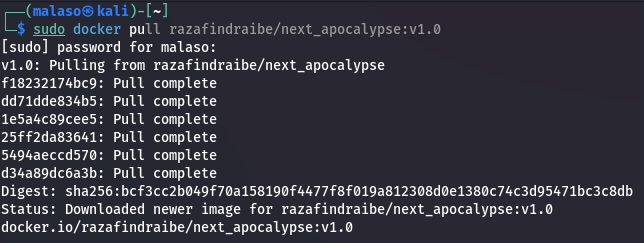
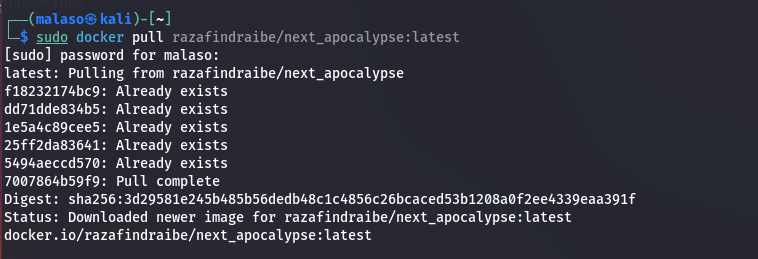
Update Docker image tags in writeup and replace images with latest versions

Changed region(s): [[0.0, 0.0, 0.9938, 0.9794]]

diff --git a/writeup next_apocalypse/writeup.md b/writeup next_apocalypse/writeup.md
@@ -15,12 +15,12 @@ You’ve been hired as a penetration tester to evaluate the security of the Medi
 - The docker images is available on my docker hub.
 <pre>Link : https://hub.docker.com/repositories/razafindraibe</pre>
 
-<pre>sudo docker pull razafindraibe/next_apocalypse:v1.0</pre>
+<pre>sudo docker pull razafindraibe/next_apocalypse:latest</pre>
 
 ![alt text](images/1.png)
 
 - Run the container:
-<pre>sudo docker run -d --name next_apocalypse -p 3000:3000 razafindraibe/next_apocalypse:v1.0</pre>
+<pre>sudo docker run -d --name next_apocalypse -p 3000:3000 razafindraibe/next_apocalypse:latest</pre>
 
 ![alt text](images/2.png)
 
